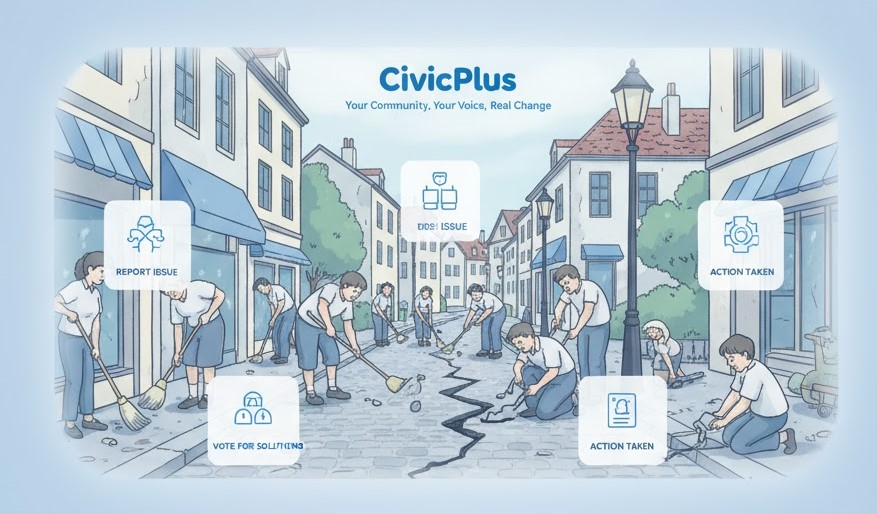
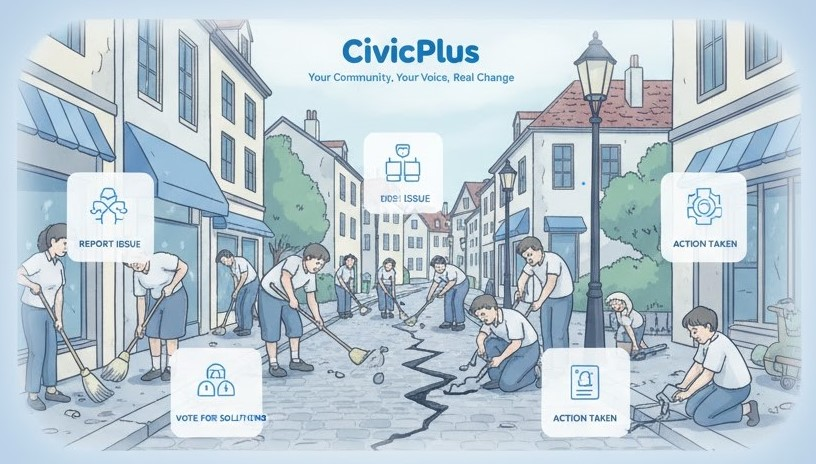
colour chnage

diff --git a/client/src/components/Hero1.jsx b/client/src/components/Hero1.jsx
@@ -3,7 +3,7 @@ import heroImg from '../assets/herosec.jpg'
 
 const Hero1 = () => {
    return (
-      <div className="flex flex-col min-h-screen pt-4 md:pt-10 bg-gradient-to-bl from-gray-300 to-sky-300">
+      <div className="flex flex-col min-h-screen pt-4 md:pt-10 bg-blue-200">
       <div className="flex flex-grow flex-col-reverse md:flex-col lg:flex-row w-full max-w-screen  md:pt-0 m-5 justify-between items-center md:px-5 ">
 
         <div className="w-full lg:w-1/2 md:w-1/2  lg:px-0 text-black">
@@ -24,12 +24,12 @@ const Hero1 = () => {
             
           </header>
         </div>
-       <div className="w-full lg:w-1/2 md:w-1/2 flex jsutify-center items-center overflow-hidden ">
+       <div className="w-full  flex jsutify-center items-center overflow-hidden ">
           <img
             src={heroImg}
             alt="Report_header"
             loading="lazy"
-            className="object-cover w-full h-full md:px-5 rounded-lg overflow-hidden"
+            className="object-cover w-[1000px] h-full md:px-5  shadow-2xrounded-xl shadow-l-sky-300  overflow-hidden"
           />
         </div>
       </div>